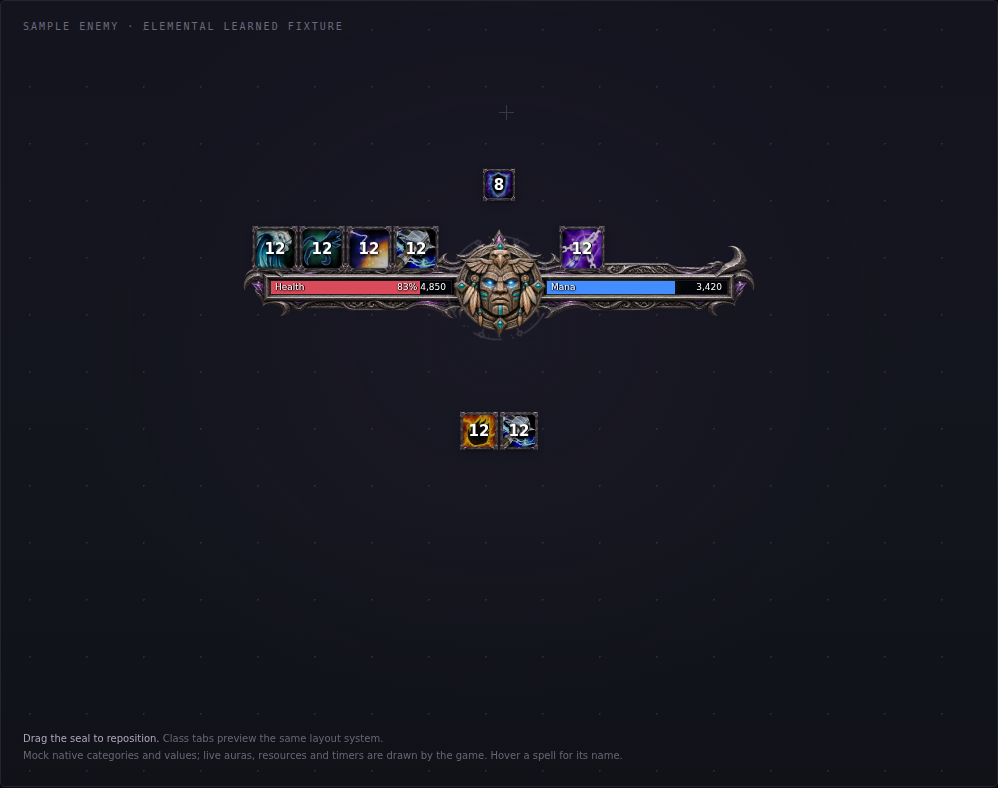
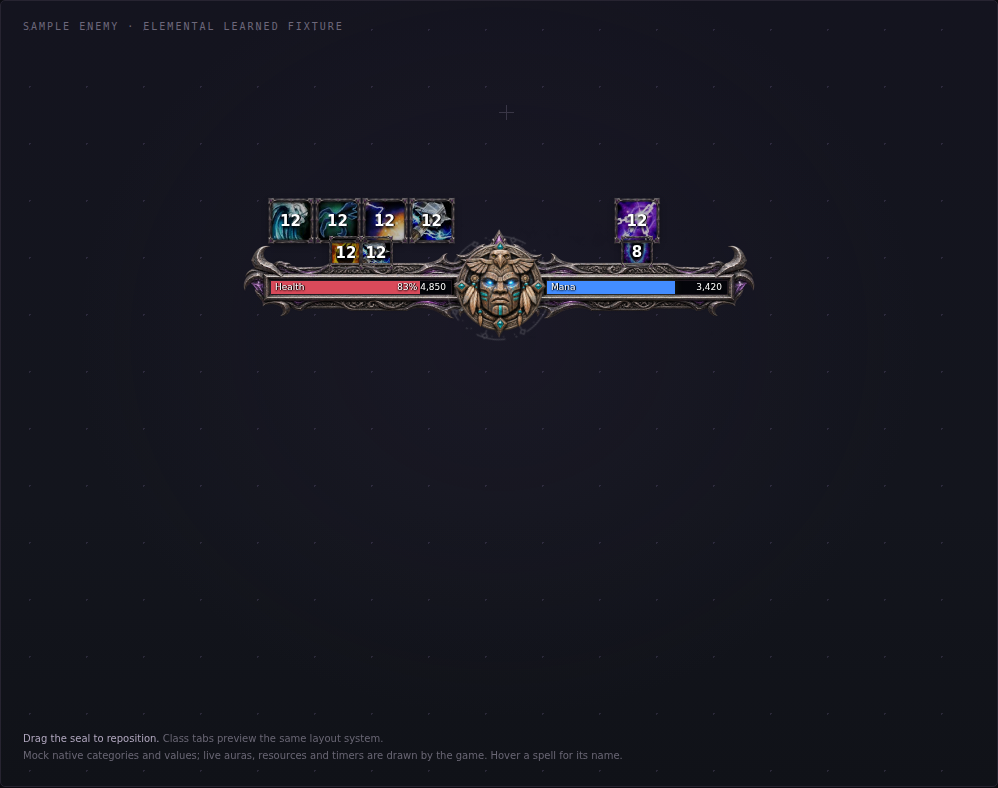
Re-capture the preview gallery for the 0.9 layout
Playwright Chromium was installed in WSL (user approved). The preview's
rim rows sat over the bars, so their offsets move up to match the game;
all 16 illustrative captures are regenerated. The cast capture is now
warlock-foreverhud.png; README links and gallery notes are updated.

diff --git a/preview/index.html b/preview/index.html
@@ -1,6 +1,6 @@
 <!doctype html><html lang="en"><meta charset="utf-8"><meta name="viewport" content="width=device-width,initial-scale=1">
 <title>ForeverHUD · Class HUD preview</title><style>
-*{box-sizing:border-box}body{margin:0;background:#0b0c11;color:#e8e5ed;font:13px system-ui,sans-serif}button,input{font:inherit}button{cursor:pointer;color:inherit}header{height:94px;display:flex;align-items:center;justify-content:space-between;padding:0 40px;border-bottom:1px solid #24232c}.brand{font:24px Georgia,serif;letter-spacing:7px}.brand small{display:block;font:10px system-ui;letter-spacing:2.3px;color:#88848f;margin-top:10px}.version{font:10px monospace;letter-spacing:1px;color:#a39aad;border:1px solid #35303e;padding:7px 11px}main{padding:28px 40px;max-width:1600px;margin:auto}.classes{display:flex;gap:6px;margin-bottom:22px;flex-wrap:wrap}.classes button{border:1px solid #25242e;background:#111218;padding:9px 13px;font-size:11px;border-radius:3px}.classes button.active{border-color:var(--class);background:color-mix(in srgb,var(--class) 12%,#0c0d12);color:var(--class)}.layout{display:grid;grid-template-columns:minmax(620px,1fr) 300px;gap:22px}.viewport{position:relative;min-height:570px;border:1px solid #272431;border-radius:5px;overflow:hidden;background:radial-gradient(ellipse at 50% 43%,#33274433,transparent 60%),linear-gradient(#14141f,#13151d 65%,#101218)}.viewport:before{content:"";position:absolute;inset:0;opacity:.15;background-image:radial-gradient(#baa2e5 1px,transparent 1px);background-size:57px 57px}.stage-label{position:absolute;left:22px;top:20px;font:10px monospace;letter-spacing:2px;color:#6d687b}.cross{position:absolute;top:104px;left:50%;width:16px;height:16px;opacity:.2}.cross:before,.cross:after{content:"";position:absolute;background:#c5b9d8}.cross:before{width:1px;height:15px;left:7px}.cross:after{height:1px;width:15px;top:7px}.hud{--class:#ac89ef;--accent:#b5f471;position:absolute;top:230px;left:50%;width:512px;height:1px;transform:translateX(-50%);transform-origin:50% 0;user-select:none}.chassis{position:absolute;width:512px;height:128px;left:0;top:-84px;z-index:1}.crest{position:absolute;width:104px;height:104px;left:204px;top:-65px;z-index:4;cursor:grab}.runes{position:absolute;width:112px;height:112px;left:200px;top:-69px;z-index:2;opacity:.18;pointer-events:none;animation:spin 45s linear infinite}@keyframes spin{to{transform:rotate(360deg)}}.class-label{position:absolute;left:0;top:-84px;width:100%;text-align:center;font-size:10px;letter-spacing:3px;color:var(--class)}.bar{position:absolute;height:13px;width:180px;top:-20px;background:#04050a;z-index:3;box-shadow:0 0 0 1px #56435955}.hp{left:28px}.power{left:304px}.fill{height:100%;background:linear-gradient(#94ae60,#486d3a);box-shadow:0 0 9px #90bb4933}.power .fill{background:linear-gradient(color-mix(in srgb,var(--class) 80%,white),var(--class));opacity:.8}.bar span{position:absolute;right:5px;top:0;font:10px Georgia;line-height:13px;text-shadow:0 1px 2px #000}.tiny{position:absolute;height:6px;width:180px;left:28px;top:9px;background:#090a10;z-index:3}.tiny .fill{background:var(--accent);opacity:.55}.pet-label,.shards{position:absolute;top:22px;color:#858292;font-size:9px;letter-spacing:.5px}.pet-label{left:28px}.shards{left:304px;top:7px;width:180px;text-align:center;color:var(--accent);font-size:11px}.row{position:absolute;display:flex;gap:8px;justify-content:center;width:512px;left:0}.primary{top:45px}.effects{top:103px}.buffs{top:-30px;left:304px;width:180px;justify-content:center;gap:2px}.buffs .tile{flex-basis:28px;height:28px}.utility{top:192px}.tile{position:relative;flex:0 0 42px;height:42px;background:radial-gradient(ellipse at 30% 25%,var(--tilecolor,#8b4cb0),#12101d 85%);border:1px solid #a88cb388;box-shadow:inset 0 0 0 2px #080910,0 2px 5px #0008;border-radius:3px;color:#ded1ed;display:grid;place-items:center;font:21px Georgia}.tile:before{content:"";position:absolute;inset:0;background:linear-gradient(115deg,#fff2,transparent 40%,#0004);pointer-events:none}.tile .time{position:absolute;inset:0;display:grid;place-items:center;font:bold 16px Georgia;color:#fff;text-shadow:0 1px 3px #000;background:#0004}.tile-label{position:absolute;top:47px;font:8px system-ui;color:#8f899c;white-space:nowrap;text-align:center}.effects{gap:8px}.effects .tile{flex-basis:32px;height:32px;font-size:17px}.effects .time{font-size:12px}.effects .tile-label{top:37px;font-size:7px}.buffs .tile{flex-basis:26px;height:26px;font-size:14px;border-color:var(--accent)}.utility .tile{flex-basis:30px;height:30px;font-size:15px;opacity:.75}.utility .time{font-size:12px}.cast{position:absolute;top:159.5px;left:106px;width:300px;height:13px;border:1px solid #8c786744;background:#05070c}.cast .fill{background:linear-gradient(90deg,var(--class),var(--accent));width:62%;opacity:.65}.cast span{position:absolute;top:-1px;left:5px;font:9px Georgia;line-height:13px}.cast .cast-time{left:auto;right:5px}.context{position:absolute;bottom:22px;left:22px;right:22px;color:#696674;font-size:10px;line-height:1.7}.context strong{color:#b0a6be;font-weight:400}.side{background:#121218;border:1px solid #2b2635;border-radius:5px;padding:24px}.side h1{font:18px Georgia;margin:0 0 7px}.side .muted{font-size:11px;color:#827a90;line-height:1.6;margin-bottom:22px}.line{height:1px;background:#282330;margin:20px 0}.option{display:flex;align-items:center;justify-content:space-between;margin:16px 0;color:#aaa3b6;font-size:12px}.option input[type=checkbox]{accent-color:#a887dd;width:15px;height:15px}.side label.scale{font-size:11px;color:#aaa3b6;display:flex;justify-content:space-between}.side input[type=range]{accent-color:#ad8bdd;width:100%;margin:15px 0}.note{font-size:10px;color:#756d84;line-height:1.8}.side code{background:#211c2d;color:#c4a3f1;padding:3px 6px;border-radius:3px}.side button{width:100%;border:1px solid #4d3b64;border-radius:3px;background:#2b203b;padding:10px;margin-top:14px;font-size:11px;color:#d6c2ee}.footer{display:flex;justify-content:space-between;color:#625e6c;font:10px monospace;padding-top:18px;line-height:1.7}@media(max-width:1050px){.layout{grid-template-columns:1fr}.side{display:none}}@media(prefers-reduced-motion:reduce){.runes{animation:none}}
+*{box-sizing:border-box}body{margin:0;background:#0b0c11;color:#e8e5ed;font:13px system-ui,sans-serif}button,input{font:inherit}button{cursor:pointer;color:inherit}header{height:94px;display:flex;align-items:center;justify-content:space-between;padding:0 40px;border-bottom:1px solid #24232c}.brand{font:24px Georgia,serif;letter-spacing:7px}.brand small{display:block;font:10px system-ui;letter-spacing:2.3px;color:#88848f;margin-top:10px}.version{font:10px monospace;letter-spacing:1px;color:#a39aad;border:1px solid #35303e;padding:7px 11px}main{padding:28px 40px;max-width:1600px;margin:auto}.classes{display:flex;gap:6px;margin-bottom:22px;flex-wrap:wrap}.classes button{border:1px solid #25242e;background:#111218;padding:9px 13px;font-size:11px;border-radius:3px}.classes button.active{border-color:var(--class);background:color-mix(in srgb,var(--class) 12%,#0c0d12);color:var(--class)}.layout{display:grid;grid-template-columns:minmax(620px,1fr) 300px;gap:22px}.viewport{position:relative;min-height:570px;border:1px solid #272431;border-radius:5px;overflow:hidden;background:radial-gradient(ellipse at 50% 43%,#33274433,transparent 60%),linear-gradient(#14141f,#13151d 65%,#101218)}.viewport:before{content:"";position:absolute;inset:0;opacity:.15;background-image:radial-gradient(#baa2e5 1px,transparent 1px);background-size:57px 57px}.stage-label{position:absolute;left:22px;top:20px;font:10px monospace;letter-spacing:2px;color:#6d687b}.cross{position:absolute;top:104px;left:50%;width:16px;height:16px;opacity:.2}.cross:before,.cross:after{content:"";position:absolute;background:#c5b9d8}.cross:before{width:1px;height:15px;left:7px}.cross:after{height:1px;width:15px;top:7px}.hud{--class:#ac89ef;--accent:#b5f471;position:absolute;top:230px;left:50%;width:512px;height:1px;transform:translateX(-50%);transform-origin:50% 0;user-select:none}.chassis{position:absolute;width:512px;height:128px;left:0;top:-84px;z-index:1}.crest{position:absolute;width:104px;height:104px;left:204px;top:-65px;z-index:4;cursor:grab}.runes{position:absolute;width:112px;height:112px;left:200px;top:-69px;z-index:2;opacity:.18;pointer-events:none;animation:spin 45s linear infinite}@keyframes spin{to{transform:rotate(360deg)}}.class-label{position:absolute;left:0;top:-84px;width:100%;text-align:center;font-size:10px;letter-spacing:3px;color:var(--class)}.bar{position:absolute;height:13px;width:180px;top:-20px;background:#04050a;z-index:3;box-shadow:0 0 0 1px #56435955}.hp{left:28px}.power{left:304px}.fill{height:100%;background:linear-gradient(#94ae60,#486d3a);box-shadow:0 0 9px #90bb4933}.power .fill{background:linear-gradient(color-mix(in srgb,var(--class) 80%,white),var(--class));opacity:.8}.bar span{position:absolute;right:5px;top:0;font:10px Georgia;line-height:13px;text-shadow:0 1px 2px #000}.tiny{position:absolute;height:6px;width:180px;left:28px;top:9px;background:#090a10;z-index:3}.tiny .fill{background:var(--accent);opacity:.55}.pet-label,.shards{position:absolute;top:22px;color:#858292;font-size:9px;letter-spacing:.5px}.pet-label{left:28px}.shards{left:304px;top:7px;width:180px;text-align:center;color:var(--accent);font-size:11px}.row{position:absolute;display:flex;gap:8px;justify-content:center;width:512px;left:0}.primary{top:45px}.effects{top:103px}.buffs{top:-62px;left:304px;width:180px;justify-content:center;gap:2px}.buffs .tile{flex-basis:28px;height:28px}.utility{top:192px}.tile{position:relative;flex:0 0 42px;height:42px;background:radial-gradient(ellipse at 30% 25%,var(--tilecolor,#8b4cb0),#12101d 85%);border:1px solid #a88cb388;box-shadow:inset 0 0 0 2px #080910,0 2px 5px #0008;border-radius:3px;color:#ded1ed;display:grid;place-items:center;font:21px Georgia}.tile:before{content:"";position:absolute;inset:0;background:linear-gradient(115deg,#fff2,transparent 40%,#0004);pointer-events:none}.tile .time{position:absolute;inset:0;display:grid;place-items:center;font:bold 16px Georgia;color:#fff;text-shadow:0 1px 3px #000;background:#0004}.tile-label{position:absolute;top:47px;font:8px system-ui;color:#8f899c;white-space:nowrap;text-align:center}.effects{gap:8px}.effects .tile{flex-basis:32px;height:32px;font-size:17px}.effects .time{font-size:12px}.effects .tile-label{top:37px;font-size:7px}.buffs .tile{flex-basis:26px;height:26px;font-size:14px;border-color:var(--accent)}.utility .tile{flex-basis:30px;height:30px;font-size:15px;opacity:.75}.utility .time{font-size:12px}.cast{position:absolute;top:159.5px;left:106px;width:300px;height:13px;border:1px solid #8c786744;background:#05070c}.cast .fill{background:linear-gradient(90deg,var(--class),var(--accent));width:62%;opacity:.65}.cast span{position:absolute;top:-1px;left:5px;font:9px Georgia;line-height:13px}.cast .cast-time{left:auto;right:5px}.context{position:absolute;bottom:22px;left:22px;right:22px;color:#696674;font-size:10px;line-height:1.7}.context strong{color:#b0a6be;font-weight:400}.side{background:#121218;border:1px solid #2b2635;border-radius:5px;padding:24px}.side h1{font:18px Georgia;margin:0 0 7px}.side .muted{font-size:11px;color:#827a90;line-height:1.6;margin-bottom:22px}.line{height:1px;background:#282330;margin:20px 0}.option{display:flex;align-items:center;justify-content:space-between;margin:16px 0;color:#aaa3b6;font-size:12px}.option input[type=checkbox]{accent-color:#a887dd;width:15px;height:15px}.side label.scale{font-size:11px;color:#aaa3b6;display:flex;justify-content:space-between}.side input[type=range]{accent-color:#ad8bdd;width:100%;margin:15px 0}.note{font-size:10px;color:#756d84;line-height:1.8}.side code{background:#211c2d;color:#c4a3f1;padding:3px 6px;border-radius:3px}.side button{width:100%;border:1px solid #4d3b64;border-radius:3px;background:#2b203b;padding:10px;margin-top:14px;font-size:11px;color:#d6c2ee}.footer{display:flex;justify-content:space-between;color:#625e6c;font:10px monospace;padding-top:18px;line-height:1.7}@media(max-width:1050px){.layout{grid-template-columns:1fr}.side{display:none}}@media(prefers-reduced-motion:reduce){.runes{animation:none}}
 .tile{border:0;border-radius:0;box-shadow:0 2px 7px #000b;background:#08060c}.tile .spell{width:100%;height:100%;object-fit:cover;border-radius:2px}.tile:before{display:none}.tile:after{content:"";position:absolute;inset:-4px;background:url('../src/ForeverHUD/Media/icon-frame.png') center/100% 100%;pointer-events:none;z-index:6}.tile .time{z-index:7;font:bold 15px system-ui;text-shadow:0 2px 3px #000,1px 0 #000}.buffs .tile,.utility .tile{border:0}.effects .tile{border:0}.viewport{min-height:610px}.context{font-size:11px}.footer{font-size:10px}
 </style><header><div class="brand">FOREVERHUD<small>CLASS COMBAT HUD / FOREVER</small></div><div class="version">v0.9.0 · BEHAVIOR PREVIEW</div></header><main><nav class="classes" aria-label="Class"></nav><div class="layout"><section class="viewport"><div class="stage-label">HUD LAYOUT · SAMPLE COMBAT STATE</div><div class="cross"></div><div class="game-cast"><span>Default game bar · sample</span><div>Health Funnel</div></div><div class="hud"><img class="chassis" alt="Original ornamental resource frame"><div class="class-label"></div><div class="bar hp"><div class="fill" style="width:83%"></div><span class="value">4,850</span><span class="role">Health</span></div><div class="bar power"><div class="fill" style="width:71%"></div><span class="value">3,420</span><span class="role">Mana</span></div><div class="tiny"><div class="fill" style="width:91%"></div><span class="value">922</span></div><div class="pet-label">Pet</div><div class="shards">◆ 24</div><img class="crest" alt="Class seal"><img class="runes" src="../src/ForeverHUD/Media/runes.png" alt=""><div class="row buffs"></div><div class="maintenance"></div><div class="trackedBars"></div><div class="row primary"></div><div class="row effects"></div><div class="cast"><div class="fill"></div><span class="cast-name">Shadow Bolt</span><span class="cast-time">1.2</span></div><div class="row utility"></div><div class="combo-bar"><div class="fill" style="width:40%"></div><span>2 / 5</span></div></div><div class="context"><strong>Drag the seal to reposition.</strong> Class tabs preview the same layout system.<br>Mock native categories and values; live auras, resources and timers are drawn by the game. Hover a spell for its name.</div></section><aside class="side"><h1>Warlock</h1><div class="muted">One import. The right class, automatically.<br>Each character class keeps its own settings.</div><label class="option">Health & resources<input type="checkbox" data-module="resources" checked></label><label class="option">Primary abilities<input type="checkbox" data-module="primary" checked></label><label class="option">Target effects<input type="checkbox" data-module="effects" checked></label><label class="option">Player effects<input type="checkbox" data-module="buffs" checked></label><label class="option">Maintenance buffs<input type="checkbox" data-module="maintenance" checked></label><label class="option">Utility row<input type="checkbox" data-module="utility" checked></label><label class="option">Cast bar<input type="checkbox" data-module="cast" checked></label><label class="option">Pet & class resource<input type="checkbox" data-module="pet" checked></label><label class="option">Tracked bars (ForeverHUD)<input type="checkbox" data-module="trackedBars"></label><label class="option">Living runes<input type="checkbox" data-module="runes" checked></label><div class="line"></div><label class="scale">HUD scale<span id="scale-value">100%</span></label><input type="range" id="scale" min="60" max="140" value="100" aria-label="HUD scale"><div class="line"></div><div class="note">IN GAME<br><code>/fhud</code> for controls<br><code>/fa</code> for individual aura editing<br><br>Native combat aura tracking. No estimated DoT timers or combat-log reconstruction.</div><button id="reset">Reset this class preview</button></aside></div><div class="footer"><span>9 CLASSES / AI-PAINTED CLASS ART / ENGLISH + 简体中文</span><span>LOCAL PREVIEW · NOT A LIVE CLIENT TEST</span></div></main><script>
 
@@ -293,7 +293,7 @@ function select(key){
 $('.classes').innerHTML=Object.entries(classes).map(([key,c])=>`<button data-class="${key}">${c.name}</button>`).join('');
 $('.classes').insertAdjacentHTML('afterend',`<div class="scenarios"><div>${['idle','enemy','combat','lost'].map(value=>`<button data-state="${value}">${{idle:'Idle',enemy:'Enemy target',combat:'Combat · no target',lost:'Target lost · 5s'}[value]}</button>`).join('')}</div><label>Training <select id="scenario"><option value="level23">Level 23 Warlock fixture</option><option value="learned">Learned sample</option></select></label><label>Cast bar <select id="cast-mode"><option value="Default">Default game bar</option><option value="ForeverHUD">ForeverHUD bar</option><option value="Both">Both bars</option></select></label><label>Cooldown layout <select id="cooldown-layout"><option value="Forever">Native category fixture</option><option>Class plan</option></select></label><label>School <select id="school"></select></label><label class="form-control" hidden>Form <select id="form"><option>Caster</option><option>Bear</option><option>Cat</option></select></label></div><div class="resource-key"></div><p class="scenario-note"></p>`);
 const style=document.createElement('style');style.textContent=`
- .scenarios{display:flex;gap:16px;align-items:center;flex-wrap:wrap;margin-bottom:8px}.scenarios button,.scenarios select{background:#17141e;border:1px solid #39313f;border-radius:3px;color:#c7bfd3;padding:7px;font:11px system-ui}.scenarios .active{border-color:var(--class);color:var(--class)}.scenarios label{font-size:11px;color:#8b8298}.scenario-note{font-size:11px;color:#8c8299;min-height:16px;margin:8px 0 18px}.hud{top:300px}.primary{top:-100px;display:block;height:40px;z-index:5}.primary .tile{position:absolute;width:40px;height:40px;transition:transform .28s ease,opacity .28s ease;transition-delay:var(--delay)}.utility{top:43px}.utility .time{position:absolute;top:32px;font-size:11px;background:none;height:15px}.effects{top:-30px;left:28px;width:180px;justify-content:center;gap:2px}.effects .tile{flex-basis:28px;height:28px}.cast{top:171.5px}.chassis,.bar,.tiny,.shards{transition:opacity .5s,transform .5s}.collapsed .primary .tile{opacity:0;transform:translateX(var(--dx));transition-delay:0s}.collapsed .chassis,.collapsed .bar,.collapsed .tiny,.collapsed .shards{opacity:0}.collapsed .hp,.collapsed .tiny{transform:translateX(138px)}.collapsed .power,.collapsed .shards{transform:translateX(-138px)}.viewport{min-height:610px}.version{white-space:nowrap}.context{font-size:10px}.tile{flex-shrink:0}@media(prefers-reduced-motion:reduce){.primary .tile,.bar,.chassis,.tiny,.shards{transition:none}}
+ .scenarios{display:flex;gap:16px;align-items:center;flex-wrap:wrap;margin-bottom:8px}.scenarios button,.scenarios select{background:#17141e;border:1px solid #39313f;border-radius:3px;color:#c7bfd3;padding:7px;font:11px system-ui}.scenarios .active{border-color:var(--class);color:var(--class)}.scenarios label{font-size:11px;color:#8b8298}.scenario-note{font-size:11px;color:#8c8299;min-height:16px;margin:8px 0 18px}.hud{top:300px}.primary{top:-100px;display:block;height:40px;z-index:5}.primary .tile{position:absolute;width:40px;height:40px;transition:transform .28s ease,opacity .28s ease;transition-delay:var(--delay)}.utility{top:43px}.utility .time{position:absolute;top:32px;font-size:11px;background:none;height:15px}.effects{top:-62px;left:28px;width:180px;justify-content:center;gap:2px}.effects .tile{flex-basis:28px;height:28px}.cast{top:171.5px}.chassis,.bar,.tiny,.shards{transition:opacity .5s,transform .5s}.collapsed .primary .tile{opacity:0;transform:translateX(var(--dx));transition-delay:0s}.collapsed .chassis,.collapsed .bar,.collapsed .tiny,.collapsed .shards{opacity:0}.collapsed .hp,.collapsed .tiny{transform:translateX(138px)}.collapsed .power,.collapsed .shards{transform:translateX(-138px)}.viewport{min-height:610px}.version{white-space:nowrap}.context{font-size:10px}.tile{flex-shrink:0}@media(prefers-reduced-motion:reduce){.primary .tile,.bar,.chassis,.tiny,.shards{transition:none}}
 
  .trackedBars{position:absolute;left:-250px;top:-23px;width:190px}.tracked-sample{position:relative;height:18px;margin-bottom:5px;background:#08090d;border:1px solid #5c526c;color:white;font-size:9px;line-height:16px}.tracked-sample i{position:absolute;inset:0 30% 0 0;background:var(--class);opacity:.6}.tracked-sample span{position:relative;margin-left:4px}.tracked-sample b{position:absolute;right:4px}
  .game-cast{display:none;position:absolute;bottom:70px;left:calc(50% - 100px);width:200px;height:18px;background:linear-gradient(90deg,#987026 65%,#08090d 65%);border:1px solid #b5a173;color:white;text-align:center;font-size:10px;line-height:16px}.game-cast span{position:absolute;top:-18px;left:0;width:200px;color:#aaa;font-size:9px}

diff --git a/scripts/preview.py b/scripts/preview.py
@@ -13,7 +13,7 @@ from build import VERSION
 
 HTML=r'''<!doctype html><html lang="en"><meta charset="utf-8"><meta name="viewport" content="width=device-width,initial-scale=1">
 <title>ForeverHUD · Class HUD preview</title><style>
-*{box-sizing:border-box}body{margin:0;background:#0b0c11;color:#e8e5ed;font:13px system-ui,sans-serif}button,input{font:inherit}button{cursor:pointer;color:inherit}header{height:94px;display:flex;align-items:center;justify-content:space-between;padding:0 40px;border-bottom:1px solid #24232c}.brand{font:24px Georgia,serif;letter-spacing:7px}.brand small{display:block;font:10px system-ui;letter-spacing:2.3px;color:#88848f;margin-top:10px}.version{font:10px monospace;letter-spacing:1px;color:#a39aad;border:1px solid #35303e;padding:7px 11px}main{padding:28px 40px;max-width:1600px;margin:auto}.classes{display:flex;gap:6px;margin-bottom:22px;flex-wrap:wrap}.classes button{border:1px solid #25242e;background:#111218;padding:9px 13px;font-size:11px;border-radius:3px}.classes button.active{border-color:var(--class);background:color-mix(in srgb,var(--class) 12%,#0c0d12);color:var(--class)}.layout{display:grid;grid-template-columns:minmax(620px,1fr) 300px;gap:22px}.viewport{position:relative;min-height:570px;border:1px solid #272431;border-radius:5px;overflow:hidden;background:radial-gradient(ellipse at 50% 43%,#33274433,transparent 60%),linear-gradient(#14141f,#13151d 65%,#101218)}.viewport:before{content:"";position:absolute;inset:0;opacity:.15;background-image:radial-gradient(#baa2e5 1px,transparent 1px);background-size:57px 57px}.stage-label{position:absolute;left:22px;top:20px;font:10px monospace;letter-spacing:2px;color:#6d687b}.cross{position:absolute;top:104px;left:50%;width:16px;height:16px;opacity:.2}.cross:before,.cross:after{content:"";position:absolute;background:#c5b9d8}.cross:before{width:1px;height:15px;left:7px}.cross:after{height:1px;width:15px;top:7px}.hud{--class:#ac89ef;--accent:#b5f471;position:absolute;top:230px;left:50%;width:512px;height:1px;transform:translateX(-50%);transform-origin:50% 0;user-select:none}.chassis{position:absolute;width:512px;height:128px;left:0;top:-84px;z-index:1}.crest{position:absolute;width:104px;height:104px;left:204px;top:-65px;z-index:4;cursor:grab}.runes{position:absolute;width:112px;height:112px;left:200px;top:-69px;z-index:2;opacity:.18;pointer-events:none;animation:spin 45s linear infinite}@keyframes spin{to{transform:rotate(360deg)}}.class-label{position:absolute;left:0;top:-84px;width:100%;text-align:center;font-size:10px;letter-spacing:3px;color:var(--class)}.bar{position:absolute;height:13px;width:180px;top:-20px;background:#04050a;z-index:3;box-shadow:0 0 0 1px #56435955}.hp{left:28px}.power{left:304px}.fill{height:100%;background:linear-gradient(#94ae60,#486d3a);box-shadow:0 0 9px #90bb4933}.power .fill{background:linear-gradient(color-mix(in srgb,var(--class) 80%,white),var(--class));opacity:.8}.bar span{position:absolute;right:5px;top:0;font:10px Georgia;line-height:13px;text-shadow:0 1px 2px #000}.tiny{position:absolute;height:6px;width:180px;left:28px;top:9px;background:#090a10;z-index:3}.tiny .fill{background:var(--accent);opacity:.55}.pet-label,.shards{position:absolute;top:22px;color:#858292;font-size:9px;letter-spacing:.5px}.pet-label{left:28px}.shards{left:304px;top:7px;width:180px;text-align:center;color:var(--accent);font-size:11px}.row{position:absolute;display:flex;gap:8px;justify-content:center;width:512px;left:0}.primary{top:45px}.effects{top:103px}.buffs{top:-30px;left:304px;width:180px;justify-content:center;gap:2px}.buffs .tile{flex-basis:28px;height:28px}.utility{top:192px}.tile{position:relative;flex:0 0 42px;height:42px;background:radial-gradient(ellipse at 30% 25%,var(--tilecolor,#8b4cb0),#12101d 85%);border:1px solid #a88cb388;box-shadow:inset 0 0 0 2px #080910,0 2px 5px #0008;border-radius:3px;color:#ded1ed;display:grid;place-items:center;font:21px Georgia}.tile:before{content:"";position:absolute;inset:0;background:linear-gradient(115deg,#fff2,transparent 40%,#0004);pointer-events:none}.tile .time{position:absolute;inset:0;display:grid;place-items:center;font:bold 16px Georgia;color:#fff;text-shadow:0 1px 3px #000;background:#0004}.tile-label{position:absolute;top:47px;font:8px system-ui;color:#8f899c;white-space:nowrap;text-align:center}.effects{gap:8px}.effects .tile{flex-basis:32px;height:32px;font-size:17px}.effects .time{font-size:12px}.effects .tile-label{top:37px;font-size:7px}.buffs .tile{flex-basis:26px;height:26px;font-size:14px;border-color:var(--accent)}.utility .tile{flex-basis:30px;height:30px;font-size:15px;opacity:.75}.utility .time{font-size:12px}.cast{position:absolute;top:159.5px;left:106px;width:300px;height:13px;border:1px solid #8c786744;background:#05070c}.cast .fill{background:linear-gradient(90deg,var(--class),var(--accent));width:62%;opacity:.65}.cast span{position:absolute;top:-1px;left:5px;font:9px Georgia;line-height:13px}.cast .cast-time{left:auto;right:5px}.context{position:absolute;bottom:22px;left:22px;right:22px;color:#696674;font-size:10px;line-height:1.7}.context strong{color:#b0a6be;font-weight:400}.side{background:#121218;border:1px solid #2b2635;border-radius:5px;padding:24px}.side h1{font:18px Georgia;margin:0 0 7px}.side .muted{font-size:11px;color:#827a90;line-height:1.6;margin-bottom:22px}.line{height:1px;background:#282330;margin:20px 0}.option{display:flex;align-items:center;justify-content:space-between;margin:16px 0;color:#aaa3b6;font-size:12px}.option input[type=checkbox]{accent-color:#a887dd;width:15px;height:15px}.side label.scale{font-size:11px;color:#aaa3b6;display:flex;justify-content:space-between}.side input[type=range]{accent-color:#ad8bdd;width:100%;margin:15px 0}.note{font-size:10px;color:#756d84;line-height:1.8}.side code{background:#211c2d;color:#c4a3f1;padding:3px 6px;border-radius:3px}.side button{width:100%;border:1px solid #4d3b64;border-radius:3px;background:#2b203b;padding:10px;margin-top:14px;font-size:11px;color:#d6c2ee}.footer{display:flex;justify-content:space-between;color:#625e6c;font:10px monospace;padding-top:18px;line-height:1.7}@media(max-width:1050px){.layout{grid-template-columns:1fr}.side{display:none}}@media(prefers-reduced-motion:reduce){.runes{animation:none}}
+*{box-sizing:border-box}body{margin:0;background:#0b0c11;color:#e8e5ed;font:13px system-ui,sans-serif}button,input{font:inherit}button{cursor:pointer;color:inherit}header{height:94px;display:flex;align-items:center;justify-content:space-between;padding:0 40px;border-bottom:1px solid #24232c}.brand{font:24px Georgia,serif;letter-spacing:7px}.brand small{display:block;font:10px system-ui;letter-spacing:2.3px;color:#88848f;margin-top:10px}.version{font:10px monospace;letter-spacing:1px;color:#a39aad;border:1px solid #35303e;padding:7px 11px}main{padding:28px 40px;max-width:1600px;margin:auto}.classes{display:flex;gap:6px;margin-bottom:22px;flex-wrap:wrap}.classes button{border:1px solid #25242e;background:#111218;padding:9px 13px;font-size:11px;border-radius:3px}.classes button.active{border-color:var(--class);background:color-mix(in srgb,var(--class) 12%,#0c0d12);color:var(--class)}.layout{display:grid;grid-template-columns:minmax(620px,1fr) 300px;gap:22px}.viewport{position:relative;min-height:570px;border:1px solid #272431;border-radius:5px;overflow:hidden;background:radial-gradient(ellipse at 50% 43%,#33274433,transparent 60%),linear-gradient(#14141f,#13151d 65%,#101218)}.viewport:before{content:"";position:absolute;inset:0;opacity:.15;background-image:radial-gradient(#baa2e5 1px,transparent 1px);background-size:57px 57px}.stage-label{position:absolute;left:22px;top:20px;font:10px monospace;letter-spacing:2px;color:#6d687b}.cross{position:absolute;top:104px;left:50%;width:16px;height:16px;opacity:.2}.cross:before,.cross:after{content:"";position:absolute;background:#c5b9d8}.cross:before{width:1px;height:15px;left:7px}.cross:after{height:1px;width:15px;top:7px}.hud{--class:#ac89ef;--accent:#b5f471;position:absolute;top:230px;left:50%;width:512px;height:1px;transform:translateX(-50%);transform-origin:50% 0;user-select:none}.chassis{position:absolute;width:512px;height:128px;left:0;top:-84px;z-index:1}.crest{position:absolute;width:104px;height:104px;left:204px;top:-65px;z-index:4;cursor:grab}.runes{position:absolute;width:112px;height:112px;left:200px;top:-69px;z-index:2;opacity:.18;pointer-events:none;animation:spin 45s linear infinite}@keyframes spin{to{transform:rotate(360deg)}}.class-label{position:absolute;left:0;top:-84px;width:100%;text-align:center;font-size:10px;letter-spacing:3px;color:var(--class)}.bar{position:absolute;height:13px;width:180px;top:-20px;background:#04050a;z-index:3;box-shadow:0 0 0 1px #56435955}.hp{left:28px}.power{left:304px}.fill{height:100%;background:linear-gradient(#94ae60,#486d3a);box-shadow:0 0 9px #90bb4933}.power .fill{background:linear-gradient(color-mix(in srgb,var(--class) 80%,white),var(--class));opacity:.8}.bar span{position:absolute;right:5px;top:0;font:10px Georgia;line-height:13px;text-shadow:0 1px 2px #000}.tiny{position:absolute;height:6px;width:180px;left:28px;top:9px;background:#090a10;z-index:3}.tiny .fill{background:var(--accent);opacity:.55}.pet-label,.shards{position:absolute;top:22px;color:#858292;font-size:9px;letter-spacing:.5px}.pet-label{left:28px}.shards{left:304px;top:7px;width:180px;text-align:center;color:var(--accent);font-size:11px}.row{position:absolute;display:flex;gap:8px;justify-content:center;width:512px;left:0}.primary{top:45px}.effects{top:103px}.buffs{top:-62px;left:304px;width:180px;justify-content:center;gap:2px}.buffs .tile{flex-basis:28px;height:28px}.utility{top:192px}.tile{position:relative;flex:0 0 42px;height:42px;background:radial-gradient(ellipse at 30% 25%,var(--tilecolor,#8b4cb0),#12101d 85%);border:1px solid #a88cb388;box-shadow:inset 0 0 0 2px #080910,0 2px 5px #0008;border-radius:3px;color:#ded1ed;display:grid;place-items:center;font:21px Georgia}.tile:before{content:"";position:absolute;inset:0;background:linear-gradient(115deg,#fff2,transparent 40%,#0004);pointer-events:none}.tile .time{position:absolute;inset:0;display:grid;place-items:center;font:bold 16px Georgia;color:#fff;text-shadow:0 1px 3px #000;background:#0004}.tile-label{position:absolute;top:47px;font:8px system-ui;color:#8f899c;white-space:nowrap;text-align:center}.effects{gap:8px}.effects .tile{flex-basis:32px;height:32px;font-size:17px}.effects .time{font-size:12px}.effects .tile-label{top:37px;font-size:7px}.buffs .tile{flex-basis:26px;height:26px;font-size:14px;border-color:var(--accent)}.utility .tile{flex-basis:30px;height:30px;font-size:15px;opacity:.75}.utility .time{font-size:12px}.cast{position:absolute;top:159.5px;left:106px;width:300px;height:13px;border:1px solid #8c786744;background:#05070c}.cast .fill{background:linear-gradient(90deg,var(--class),var(--accent));width:62%;opacity:.65}.cast span{position:absolute;top:-1px;left:5px;font:9px Georgia;line-height:13px}.cast .cast-time{left:auto;right:5px}.context{position:absolute;bottom:22px;left:22px;right:22px;color:#696674;font-size:10px;line-height:1.7}.context strong{color:#b0a6be;font-weight:400}.side{background:#121218;border:1px solid #2b2635;border-radius:5px;padding:24px}.side h1{font:18px Georgia;margin:0 0 7px}.side .muted{font-size:11px;color:#827a90;line-height:1.6;margin-bottom:22px}.line{height:1px;background:#282330;margin:20px 0}.option{display:flex;align-items:center;justify-content:space-between;margin:16px 0;color:#aaa3b6;font-size:12px}.option input[type=checkbox]{accent-color:#a887dd;width:15px;height:15px}.side label.scale{font-size:11px;color:#aaa3b6;display:flex;justify-content:space-between}.side input[type=range]{accent-color:#ad8bdd;width:100%;margin:15px 0}.note{font-size:10px;color:#756d84;line-height:1.8}.side code{background:#211c2d;color:#c4a3f1;padding:3px 6px;border-radius:3px}.side button{width:100%;border:1px solid #4d3b64;border-radius:3px;background:#2b203b;padding:10px;margin-top:14px;font-size:11px;color:#d6c2ee}.footer{display:flex;justify-content:space-between;color:#625e6c;font:10px monospace;padding-top:18px;line-height:1.7}@media(max-width:1050px){.layout{grid-template-columns:1fr}.side{display:none}}@media(prefers-reduced-motion:reduce){.runes{animation:none}}
 .tile{border:0;border-radius:0;box-shadow:0 2px 7px #000b;background:#08060c}.tile .spell{width:100%;height:100%;object-fit:cover;border-radius:2px}.tile:before{display:none}.tile:after{content:"";position:absolute;inset:-4px;background:url('../src/ForeverHUD/Media/icon-frame.png') center/100% 100%;pointer-events:none;z-index:6}.tile .time{z-index:7;font:bold 15px system-ui;text-shadow:0 2px 3px #000,1px 0 #000}.buffs .tile,.utility .tile{border:0}.effects .tile{border:0}.viewport{min-height:610px}.context{font-size:11px}.footer{font-size:10px}
 </style><header><div class="brand">FOREVERHUD<small>CLASS COMBAT HUD / FOREVER</small></div><div class="version">VERSION_LABEL · BEHAVIOR PREVIEW</div></header><main><nav class="classes" aria-label="Class"></nav><div class="layout"><section class="viewport"><div class="stage-label">HUD LAYOUT · SAMPLE COMBAT STATE</div><div class="cross"></div><div class="game-cast"><span>Default game bar · sample</span><div>Health Funnel</div></div><div class="hud"><img class="chassis" alt="Original ornamental resource frame"><div class="class-label"></div><div class="bar hp"><div class="fill" style="width:83%"></div><span class="value">4,850</span><span class="role">Health</span></div><div class="bar power"><div class="fill" style="width:71%"></div><span class="value">3,420</span><span class="role">Mana</span></div><div class="tiny"><div class="fill" style="width:91%"></div><span class="value">922</span></div><div class="pet-label">Pet</div><div class="shards">◆ 24</div><img class="crest" alt="Class seal"><img class="runes" src="../src/ForeverHUD/Media/runes.png" alt=""><div class="row buffs"></div><div class="maintenance"></div><div class="trackedBars"></div><div class="row primary"></div><div class="row effects"></div><div class="cast"><div class="fill"></div><span class="cast-name">Shadow Bolt</span><span class="cast-time">1.2</span></div><div class="row utility"></div><div class="combo-bar"><div class="fill" style="width:40%"></div><span>2 / 5</span></div></div><div class="context"><strong>Drag the seal to reposition.</strong> Class tabs preview the same layout system.<br>Mock native categories and values; live auras, resources and timers are drawn by the game. Hover a spell for its name.</div></section><aside class="side"><h1>Warlock</h1><div class="muted">One import. The right class, automatically.<br>Each character class keeps its own settings.</div><label class="option">Health & resources<input type="checkbox" data-module="resources" checked></label><label class="option">Primary abilities<input type="checkbox" data-module="primary" checked></label><label class="option">Target effects<input type="checkbox" data-module="effects" checked></label><label class="option">Player effects<input type="checkbox" data-module="buffs" checked></label><label class="option">Maintenance buffs<input type="checkbox" data-module="maintenance" checked></label><label class="option">Utility row<input type="checkbox" data-module="utility" checked></label><label class="option">Cast bar<input type="checkbox" data-module="cast" checked></label><label class="option">Pet & class resource<input type="checkbox" data-module="pet" checked></label><label class="option">Tracked bars (ForeverHUD)<input type="checkbox" data-module="trackedBars"></label><label class="option">Living runes<input type="checkbox" data-module="runes" checked></label><div class="line"></div><label class="scale">HUD scale<span id="scale-value">100%</span></label><input type="range" id="scale" min="60" max="140" value="100" aria-label="HUD scale"><div class="line"></div><div class="note">IN GAME<br><code>/fhud</code> for controls<br><code>/fa</code> for individual aura editing<br><br>Native combat aura tracking. No estimated DoT timers or combat-log reconstruction.</div><button id="reset">Reset this class preview</button></aside></div><div class="footer"><span>9 CLASSES / AI-PAINTED CLASS ART / ENGLISH + 简体中文</span><span>LOCAL PREVIEW · NOT A LIVE CLIENT TEST</span></div></main><script>
 
@@ -103,7 +103,7 @@ function select(key){
 $('.classes').innerHTML=Object.entries(classes).map(([key,c])=>`<button data-class="${key}">${c.name}</button>`).join('');
 $('.classes').insertAdjacentHTML('afterend',`<div class="scenarios"><div>${['idle','enemy','combat','lost'].map(value=>`<button data-state="${value}">${{idle:'Idle',enemy:'Enemy target',combat:'Combat · no target',lost:'Target lost · 5s'}[value]}</button>`).join('')}</div><label>Training <select id="scenario"><option value="level23">Level 23 Warlock fixture</option><option value="learned">Learned sample</option></select></label><label>Cast bar <select id="cast-mode"><option value="Default">Default game bar</option><option value="ForeverHUD">ForeverHUD bar</option><option value="Both">Both bars</option></select></label><label>Cooldown layout <select id="cooldown-layout"><option value="Forever">Native category fixture</option><option>Class plan</option></select></label><label>School <select id="school"></select></label><label class="form-control" hidden>Form <select id="form"><option>Caster</option><option>Bear</option><option>Cat</option></select></label></div><div class="resource-key"></div><p class="scenario-note"></p>`);
 const style=document.createElement('style');style.textContent=`
- .scenarios{display:flex;gap:16px;align-items:center;flex-wrap:wrap;margin-bottom:8px}.scenarios button,.scenarios select{background:#17141e;border:1px solid #39313f;border-radius:3px;color:#c7bfd3;padding:7px;font:11px system-ui}.scenarios .active{border-color:var(--class);color:var(--class)}.scenarios label{font-size:11px;color:#8b8298}.scenario-note{font-size:11px;color:#8c8299;min-height:16px;margin:8px 0 18px}.hud{top:300px}.primary{top:-100px;display:block;height:40px;z-index:5}.primary .tile{position:absolute;width:40px;height:40px;transition:transform .28s ease,opacity .28s ease;transition-delay:var(--delay)}.utility{top:43px}.utility .time{position:absolute;top:32px;font-size:11px;background:none;height:15px}.effects{top:-30px;left:28px;width:180px;justify-content:center;gap:2px}.effects .tile{flex-basis:28px;height:28px}.cast{top:171.5px}.chassis,.bar,.tiny,.shards{transition:opacity .5s,transform .5s}.collapsed .primary .tile{opacity:0;transform:translateX(var(--dx));transition-delay:0s}.collapsed .chassis,.collapsed .bar,.collapsed .tiny,.collapsed .shards{opacity:0}.collapsed .hp,.collapsed .tiny{transform:translateX(138px)}.collapsed .power,.collapsed .shards{transform:translateX(-138px)}.viewport{min-height:610px}.version{white-space:nowrap}.context{font-size:10px}.tile{flex-shrink:0}@media(prefers-reduced-motion:reduce){.primary .tile,.bar,.chassis,.tiny,.shards{transition:none}}
+ .scenarios{display:flex;gap:16px;align-items:center;flex-wrap:wrap;margin-bottom:8px}.scenarios button,.scenarios select{background:#17141e;border:1px solid #39313f;border-radius:3px;color:#c7bfd3;padding:7px;font:11px system-ui}.scenarios .active{border-color:var(--class);color:var(--class)}.scenarios label{font-size:11px;color:#8b8298}.scenario-note{font-size:11px;color:#8c8299;min-height:16px;margin:8px 0 18px}.hud{top:300px}.primary{top:-100px;display:block;height:40px;z-index:5}.primary .tile{position:absolute;width:40px;height:40px;transition:transform .28s ease,opacity .28s ease;transition-delay:var(--delay)}.utility{top:43px}.utility .time{position:absolute;top:32px;font-size:11px;background:none;height:15px}.effects{top:-62px;left:28px;width:180px;justify-content:center;gap:2px}.effects .tile{flex-basis:28px;height:28px}.cast{top:171.5px}.chassis,.bar,.tiny,.shards{transition:opacity .5s,transform .5s}.collapsed .primary .tile{opacity:0;transform:translateX(var(--dx));transition-delay:0s}.collapsed .chassis,.collapsed .bar,.collapsed .tiny,.collapsed .shards{opacity:0}.collapsed .hp,.collapsed .tiny{transform:translateX(138px)}.collapsed .power,.collapsed .shards{transform:translateX(-138px)}.viewport{min-height:610px}.version{white-space:nowrap}.context{font-size:10px}.tile{flex-shrink:0}@media(prefers-reduced-motion:reduce){.primary .tile,.bar,.chassis,.tiny,.shards{transition:none}}
 
  .trackedBars{position:absolute;left:-250px;top:-23px;width:190px}.tracked-sample{position:relative;height:18px;margin-bottom:5px;background:#08090d;border:1px solid #5c526c;color:white;font-size:9px;line-height:16px}.tracked-sample i{position:absolute;inset:0 30% 0 0;background:var(--class);opacity:.6}.tracked-sample span{position:relative;margin-left:4px}.tracked-sample b{position:absolute;right:4px}
  .game-cast{display:none;position:absolute;bottom:70px;left:calc(50% - 100px);width:200px;height:18px;background:linear-gradient(90deg,#987026 65%,#08090d 65%);border:1px solid #b5a173;color:white;text-align:center;font-size:10px;line-height:16px}.game-cast span{position:absolute;top:-18px;left:0;width:200px;color:#aaa;font-size:9px}

diff --git a/docs/feature-parity-plan.md b/docs/feature-parity-plan.md
@@ -473,6 +473,7 @@ plan update does not create a new runtime release.
 
[1 lines of base64/hex data omitted]
 | 2026-11-12 | README features and screenshot (user: "update docs with screenshots and featuers?") | Docs updated; no runtime change | A new *Features* section (EN/ZH) covers everything through 0.9.0. It uses a game-client capture the user supplied (0.7.0 Warlock), cropped to the HUD rows so no character, pet or guild names are published: `docs/images/game-0.7.0-warlock-hud.png`. The illustrative gallery is now marked as predating the 0.6–0.9 layout. Re-capturing the illustrative previews needs a newer Playwright Chromium (the cached build 1208 is older than playwright 1.65), so that wasn't done without the user's OK to download it. |
+| 2026-11-12 | Preview gallery re-capture (user approved the Chromium download) | Captures refreshed; no runtime change | Playwright Chromium (headless shell v1254, about 126 MB) was installed in WSL. The first capture showed the preview's rim rows drawn over the bars, so `preview.py` rim offsets moved up 32 px to match the in-game y=40. All 16 illustrative captures were regenerated, and the browser regressions pass. The cast capture is now `warlock-foreverhud.png` (the README link moved; the stale `warlock-hud.png` was removed). The gallery note says the captures show the 0.9 layout but not the tray or suggestions. |
 
 **Implementation status:** v0.9.0 (spell suggestions, aura install status) is published as a prerelease and installed; the in-game update and live check are pending. v0.8.1 (no icon for an active upkeep buff) is published as a prerelease and installed; the in-game update and live check are pending. Proposed next: a per-class reagent socket row under the resource bar. v0.8.0 (retracted seal and tray) is published as a prerelease and installed; the in-game update and live check are pending. The painted rail and tray art is pending image generation. v0.7.1 (buff row mirrors the DoT row) is published as a prerelease and installed; the in-game update and live check are pending. The painted art is pending image generation. v0.7.0 (rows centred on each bar) is published as a prerelease and installed; the in-game update and live check are pending. The painted art is pending image generation. v0.6.2 (every row on its side) is published as a prerelease and installed; the in-game update and live check are pending. v0.6.0 (damage left, everything else right) is published as a prerelease and installed; the in-game update of the Core and class groups and the live check are pending. v0.5.0 (Core + class split) is published as a prerelease and installed in the client (backup of 0.4.1 kept); the Core and Warlock groups are installed in game and render together. v0.5.1 (DoTs only in the HUD's target row) is published as a prerelease and installed; its in-game check is pending. In-game import and live acceptance are pending, and no live runtime acceptance is claimed.
 
